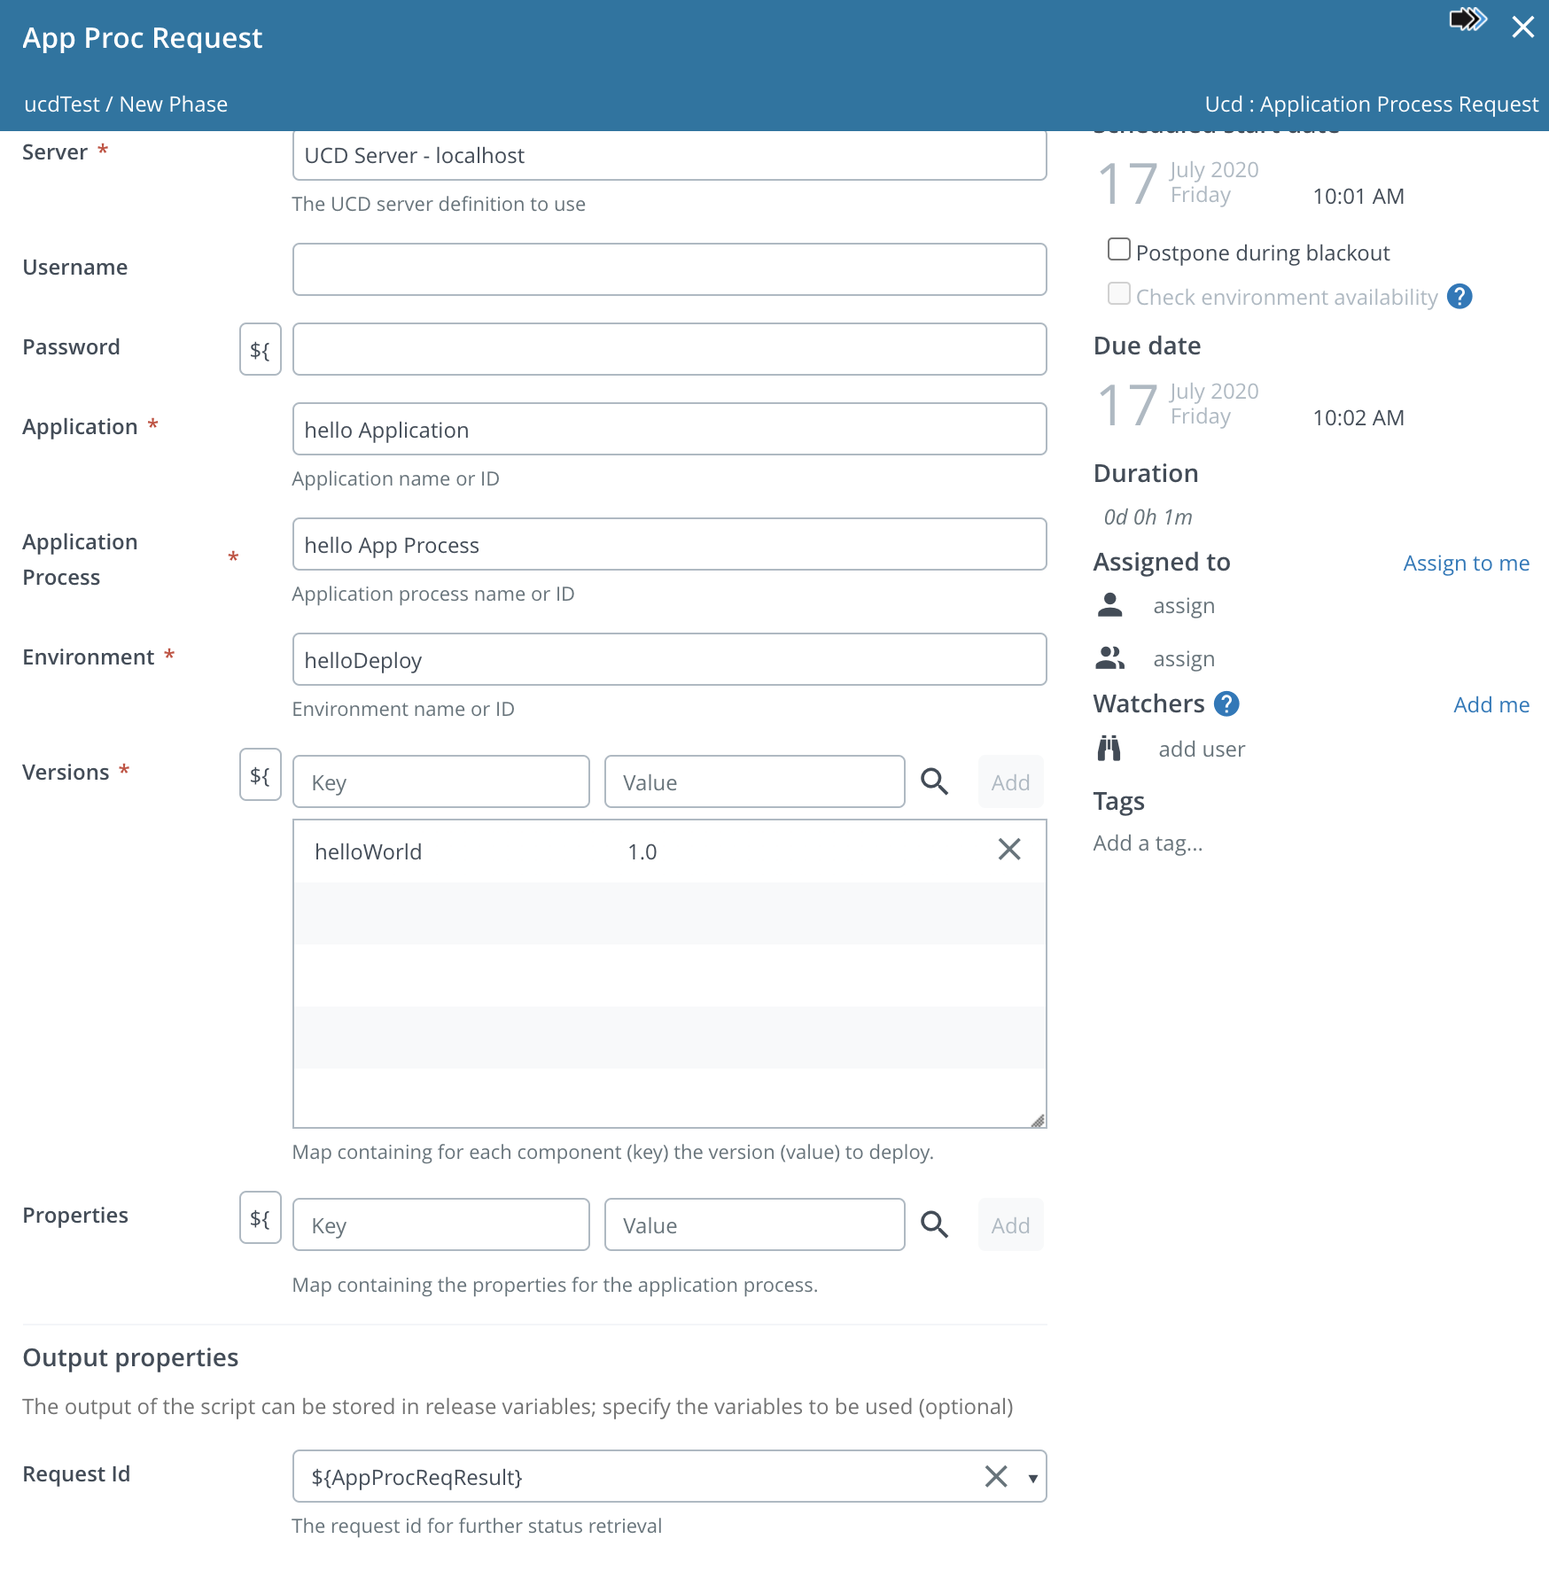
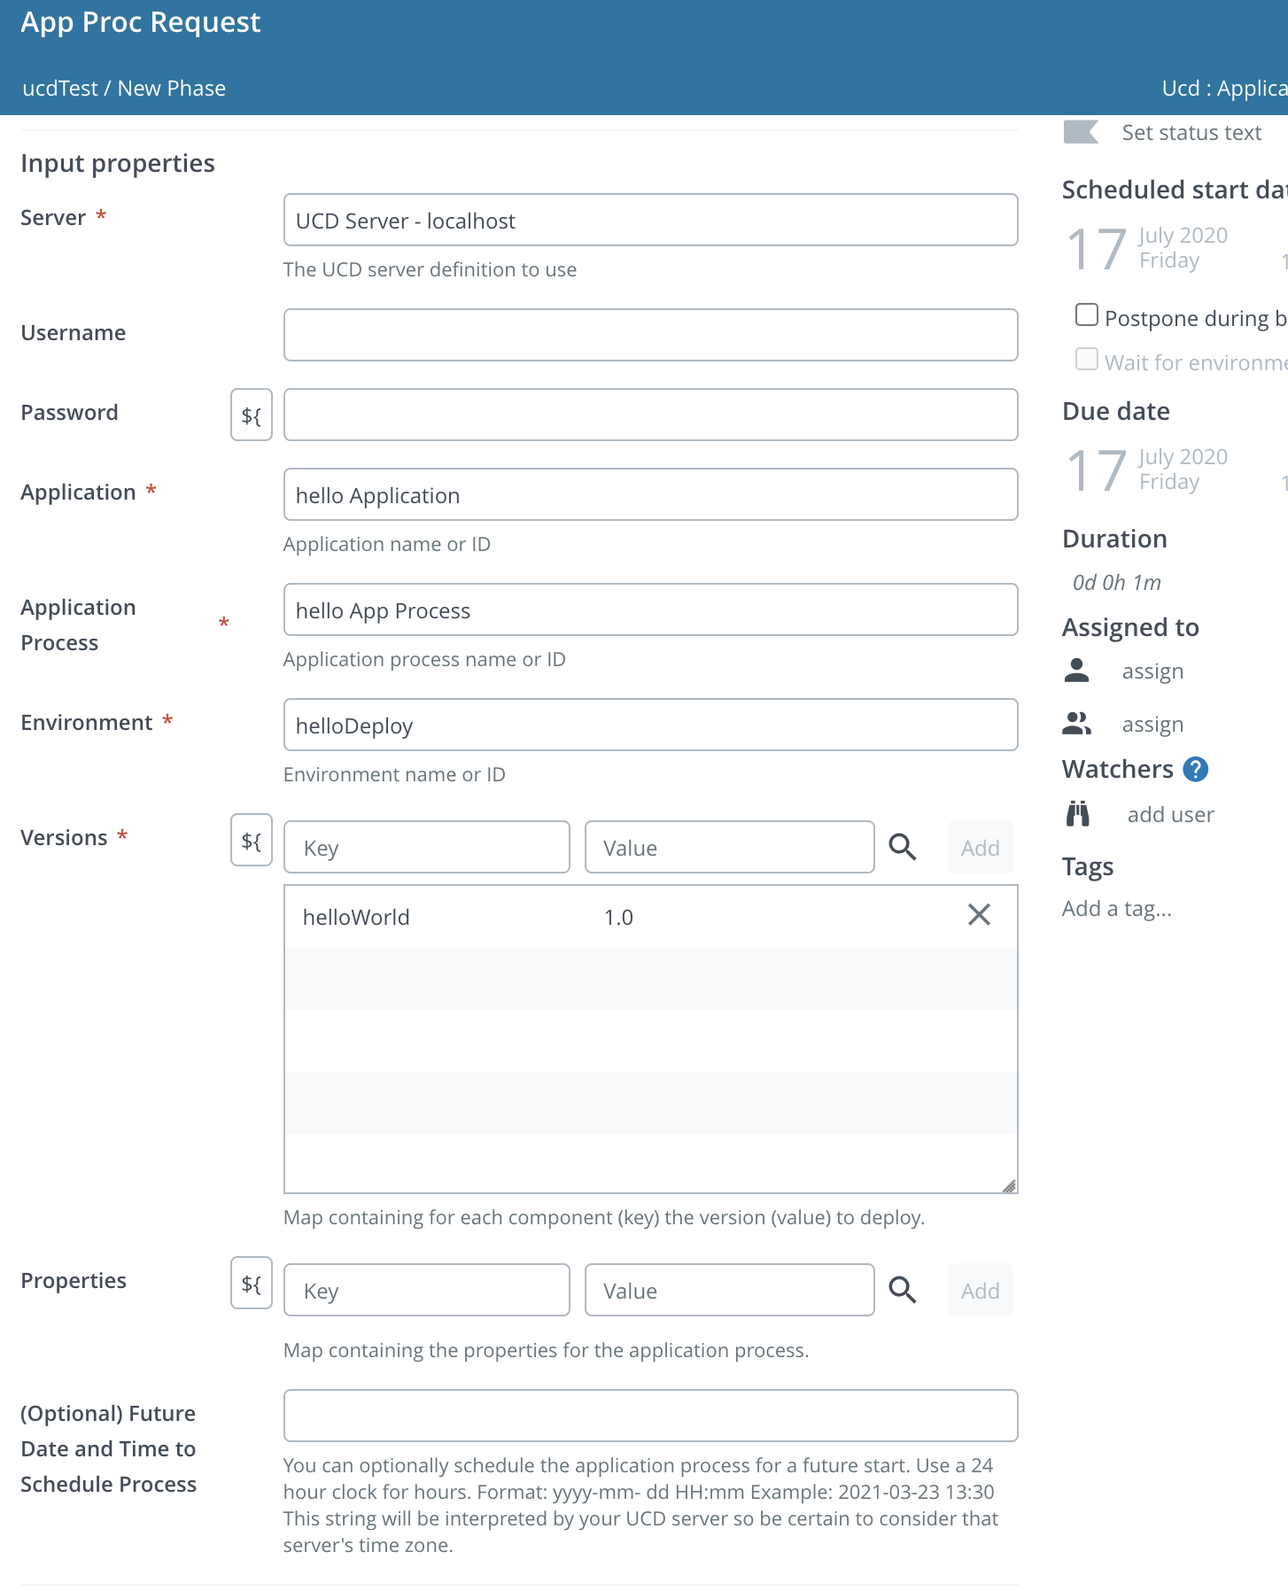
Change polling to sched task, added future date, license year update

diff --git a/src/main/resources/ucd/UCDClient.py b/src/main/resources/ucd/UCDClient.py
@@ -1,5 +1,5 @@
 #
-# Copyright 2020 XEBIALABS
+# Copyright 2021 XEBIALABS
 #
 # Permission is hereby granted, free of charge, to any person obtaining a copy of this software and associated documentation files (the "Software"), to deal in the Software without restriction, including without limitation the rights to use, copy, modify, merge, publish, distribute, sublicense, and/or sell copies of the Software, and to permit persons to whom the Software is furnished to do so, subject to the following conditions:
 #
@@ -11,8 +11,16 @@
 
 import json
 import time
+import logging
+import datetime
 
 from ucd.HttpRequest import HttpRequest
+
+logger = logging.getLogger(__name__)
+
+logger.debug("In UCDClient")
+# In the case we have a future scheduled ucd_applicationprocessrequest, we don't want to log all those status messages
+shouldSupressLogging = False
 
 
 def check_response(response, message):
@@ -21,12 +29,13 @@ def check_response(response, message):
 
 
 class UCD_Client(object):
-    def __init__(self, http_connection, username=None, password=None, verify=True):
+    def __init__(self, http_connection, task, username=None, password=None, verify=True):
         self.http_request = HttpRequest(http_connection, username, password, verify)
+        self.task = task
 
     @staticmethod
-    def create_client(http_connection, username=None, password=None, verify=True):
-        return UCD_Client(http_connection, username, password, verify)
+    def create_client(http_connection, task, username=None, password=None, verify=True):
+        return UCD_Client(http_connection, task, username, password, verify)
 
     def ucd_listsystemconfiguration(self, variables):
         system_configuration_endpoint = "/cli/systemConfiguration"
@@ -39,7 +48,6 @@ class UCD_Client(object):
         variables['systemConfiguration'] = result
         return result
 
-# TODO: add 'date' option for scheduled deployments
 
     def ucd_applicationprocessrequest(self, variables):
         application_process_request_endpoint = "/cli/applicationProcessRequest/request"
@@ -49,6 +57,14 @@ class UCD_Client(object):
         body = {'application': variables['application'], 'applicationProcess': variables['applicationProcess'],
                 'environment': variables['environment'], 'properties': variables['properties'],
                 'versions': versions_list}
+        if variables['scheduleDate'] is not None and len(variables['scheduleDate']) > 0:
+            if self.vaild_dateTime(variables['scheduleDate']):
+                logger.debug("dateTimeString is valid")
+                body.update({"date": variables['scheduleDate']})
+            else:
+                logger.debug("dateTimeString is Not valid")
+                raise Exception("Future schedule date is configured but is not in proper format. See field description.")
+
         print "Sending request: [%s]\n" % json.dumps(body)
         application_process_request_response = self.http_request.put(application_process_request_endpoint,
                                                                      json.dumps(body), contentType='application/json')
@@ -56,6 +72,7 @@ class UCD_Client(object):
                             "Failed to execute application process request. Server return [%s], with content [%s]" % (
                                 application_process_request_response.status,
                                 application_process_request_response.response))
+        logger.debug("\napplicationprocessrequest respone was %s\n" % json.loads(application_process_request_response.getResponse()))
         result = json.loads(application_process_request_response.getResponse())["requestId"]
         variables['requestId'] = result
         return result
@@ -71,6 +88,9 @@ class UCD_Client(object):
         return json.loads(application_process_request_status_response.getResponse())
 
     def ucd_applicationprocessrequeststatus(self, variables):
+        #logger.debug("In ucd_applicationprocessrequeststatus")
+        global shouldSupressLogging
+
         '''        
         The UCD request returns the following statuses:
         CANCELING
@@ -101,12 +121,22 @@ class UCD_Client(object):
         variables['requestStatus'] = request_response["status"]
         variables['requestResult'] = request_response["result"]
 
-        # update task status
-        print ("Received Request Status: [%s] with Request Result: [%s]\n").format(variables['requestStatus'], variables['requestResult'])
+        # log task status
+        if variables['requestResult'] is not None and  variables['requestResult'] in  ('SCHEDULED FOR FUTURE'):
+            if not shouldSupressLogging:
+                logger.debug("Received Request Status: Request Id: [%s],  Request Status: [%s] with Request Result: [%s], will surpress printout until result change.\n" % (variables['requestId'], variables['requestStatus'], variables['requestResult']))
+                #print ("Received Request Status: [%s] with Request Result: [%s], will surpress printout until result change.\n" % (variables['requestStatus'], variables['requestResult']))
+                shouldSupressLogging = True
+        else:
+            logger.debug("Received Request Status: Request Id: [%s],  Request Status: [%s] with Request Result: [%s].\n" % (variables['requestId'], variables['requestStatus'], variables['requestResult']))
+            #print ("Received Request Status: [%s] with Request Result: [%s].\n" % (variables['requestStatus'], variables['requestResult']))
+            # set to false so the print output from application_process_request_status will print at least once
+            shouldSupressLogging = False
+
 
         # determine if we're done
         if variables['requestStatus'] in ("CLOSED", "FAULTED"):
-            task.setStatusLine("Result: %s" % variables['requestResult'])
+            self.task.setStatusLine("Result: %s" % variables['requestResult'])
             if variables['requestResult'] not in "SUCCEEDED":
                 raise Exception("Failed to execute application process request. Status [%s], Result [%s]" % (
                     variables['requestStatus'], variables['requestResult']))
@@ -115,10 +145,18 @@ class UCD_Client(object):
 
         # not done, continue checking
         else:
-            task.setStatusLine("Status: %s" % variables['requestStatus'])
-            task.schedule('ucd/UCDTask.wait-for-status.py')
+            self.task.setStatusLine("Status: %s" % variables['requestStatus'])
+            self.task.schedule('ucd/UCDTask.wait-for-status.py')
 
     def ucd_synchronousapplicationprocessrequest(self, variables):
         self.ucd_applicationprocessrequest(variables)
-        task.schedule('ucd/UCDTask.wait-for-status.py')
+        self.task.schedule('ucd/UCDTask.wait-for-status.py')
+
+    def vaild_dateTime(self, dateTimeString):
+        logger.debug("In valid_dateTime, dateTimeString = %s" % dateTimeString)
+        try:
+            datetime.datetime.strptime(dateTimeString, '%Y-%m-%d %H:%M')
+            return True
+        except ValueError:
+            return False
 

diff --git a/src/main/resources/ucd/__init__.py b/src/main/resources/ucd/__init__.py
@@ -1,5 +1,5 @@
 #
-# Copyright 2020 XEBIALABS
+# Copyright 2021 XEBIALABS
 #
 # Permission is hereby granted, free of charge, to any person obtaining a copy of this software and associated documentation files (the "Software"), to deal in the Software without restriction, including without limitation the rights to use, copy, modify, merge, publish, distribute, sublicense, and/or sell copies of the Software, and to permit persons to whom the Software is furnished to do so, subject to the following conditions:
 #
@@ -8,3 +8,19 @@
 # THE SOFTWARE IS PROVIDED "AS IS", WITHOUT WARRANTY OF ANY KIND, EXPRESS OR IMPLIED, INCLUDING BUT NOT LIMITED TO THE WARRANTIES OF MERCHANTABILITY, FITNESS FOR A PARTICULAR PURPOSE AND NONINFRINGEMENT. IN NO EVENT SHALL THE AUTHORS OR COPYRIGHT HOLDERS BE LIABLE FOR ANY CLAIM, DAMAGES OR OTHER LIABILITY, WHETHER IN AN ACTION OF CONTRACT, TORT OR OTHERWISE, ARISING FROM, OUT OF OR IN CONNECTION WITH THE SOFTWARE OR THE USE OR OTHER DEALINGS IN THE SOFTWARE.
 #
 
+import logging
+import logging.handlers
+from logging.handlers import RotatingFileHandler
+import os
+
+LOG_FILENAME = 'log/ucd-plugin.log'
+
+logger = logging.getLogger(__name__)
+logger.setLevel(logging.DEBUG)
+handler = logging.handlers.RotatingFileHandler(
+              LOG_FILENAME, maxBytes=1000000, backupCount=1)
+formatter = logging.Formatter('%(asctime)s %(name)s %(levelname)s %(message)s')
+handler.setFormatter(formatter)
+logger.addHandler(handler)
+
+logger.debug('logger has been configured')

diff --git a/src/main/resources/ucd/UCDClientUtil.py b/src/main/resources/ucd/UCDClientUtil.py
@@ -1,5 +1,5 @@
 #
-# Copyright 2020 XEBIALABS
+# Copyright 2021 XEBIALABS
 #
 # Permission is hereby granted, free of charge, to any person obtaining a copy of this software and associated documentation files (the "Software"), to deal in the Software without restriction, including without limitation the rights to use, copy, modify, merge, publish, distribute, sublicense, and/or sell copies of the Software, and to permit persons to whom the Software is furnished to do so, subject to the following conditions:
 #
@@ -14,6 +14,6 @@ from ucd.UCDClient import UCD_Client
 class UCD_Client_Util(object):
 
     @staticmethod
-    def create_ucd_client(container, username, password, verifySsl):
-        client = UCD_Client.create_client(container, username, password, verifySsl)
+    def create_ucd_client(container, task, username, password, verifySsl):
+        client = UCD_Client.create_client(container, task, username, password, verifySsl)
         return client

diff --git a/src/main/resources/ucd/UCDTask.py b/src/main/resources/ucd/UCDTask.py
@@ -1,5 +1,5 @@
 #
-# Copyright 2020 XEBIALABS
+# Copyright 2021 XEBIALABS
 #
 # Permission is hereby granted, free of charge, to any person obtaining a copy of this software and associated documentation files (the "Software"), to deal in the Software without restriction, including without limitation the rights to use, copy, modify, merge, publish, distribute, sublicense, and/or sell copies of the Software, and to permit persons to whom the Software is furnished to do so, subject to the following conditions:
 #
@@ -11,7 +11,7 @@
 from ucd.UCDClientUtil import UCD_Client_Util
 
 verify_ssl = not server['disableSslVerification']
-ucd_client = UCD_Client_Util.create_ucd_client(server, username, password, verify_ssl)
+ucd_client = UCD_Client_Util.create_ucd_client(server, task, username, password, verify_ssl)
 method = str(task.getTaskType()).lower().replace('.', '_')
 call = getattr(ucd_client, method)
 output = call(locals())

diff --git a/src/main/resources/ucd/UCDTask.wait-for-status.py b/src/main/resources/ucd/UCDTask.wait-for-status.py
@@ -1,5 +1,5 @@
 #
-# Copyright 2020 XEBIALABS
+# Copyright 2021 XEBIALABS
 #
 # Permission is hereby granted, free of charge, to any person obtaining a copy of this software and associated documentation files (the "Software"), to deal in the Software without restriction, including without limitation the rights to use, copy, modify, merge, publish, distribute, sublicense, and/or sell copies of the Software, and to permit persons to whom the Software is furnished to do so, subject to the following conditions:
 #
@@ -11,5 +11,5 @@
 from ucd.UCDClientUtil import UCD_Client_Util
 
 verify_ssl = not server['disableSslVerification']
-ucd_client = UCD_Client_Util.create_ucd_client(server, username, password, verify_ssl)
+ucd_client = UCD_Client_Util.create_ucd_client(server, task, username, password, verify_ssl)
 ucd_client.ucd_applicationprocessrequeststatus(locals())

diff --git a/src/test/java/integration/PluginIntegrationTest.java b/src/test/java/integration/PluginIntegrationTest.java
@@ -1,5 +1,5 @@
 /**
- * Copyright 2020 XEBIALABS
+ * Copyright 2021 XEBIALABS
  *
  * Permission is hereby granted, free of charge, to any person obtaining a copy of this software and associated documentation files (the "Software"), to deal in the Software without restriction, including without limitation the rights to use, copy, modify, merge, publish, distribute, sublicense, and/or sell copies of the Software, and to permit persons to whom the Software is furnished to do so, subject to the following conditions:
  *

diff --git a/src/test/java/integration/util/PluginTestHelper.java b/src/test/java/integration/util/PluginTestHelper.java
@@ -1,5 +1,5 @@
 /**
- * Copyright 2020 XEBIALABS
+ * Copyright 2021 XEBIALABS
  *
  * Permission is hereby granted, free of charge, to any person obtaining a copy of this software and associated documentation files (the "Software"), to deal in the Software without restriction, including without limitation the rights to use, copy, modify, merge, publish, distribute, sublicense, and/or sell copies of the Software, and to permit persons to whom the Software is furnished to do so, subject to the following conditions:
  *

diff --git a/src/main/resources/ucd/HttpRequest.py b/src/main/resources/ucd/HttpRequest.py
@@ -1,5 +1,5 @@
 #
-# Copyright 2020 XEBIALABS
+# Copyright 2021 XEBIALABS
 #
 # Permission is hereby granted, free of charge, to any person obtaining a copy of this software and associated documentation files (the "Software"), to deal in the Software without restriction, including without limitation the rights to use, copy, modify, merge, publish, distribute, sublicense, and/or sell copies of the Software, and to permit persons to whom the Software is furnished to do so, subject to the following conditions:
 #

diff --git a/src/main/resources/ucd/TestConnection.py b/src/main/resources/ucd/TestConnection.py
@@ -1,5 +1,5 @@
 #
-# Copyright 2020 XEBIALABS
+# Copyright 2021 XEBIALABS
 #
 # Permission is hereby granted, free of charge, to any person obtaining a copy of this software and associated documentation files (the "Software"), to deal in the Software without restriction, including without limitation the rights to use, copy, modify, merge, publish, distribute, sublicense, and/or sell copies of the Software, and to permit persons to whom the Software is furnished to do so, subject to the following conditions:
 #

diff --git a/README.md b/README.md
@@ -1,6 +1,5 @@
 # XL Release UCD Plugin
 
-[![Build Status][xlr-ucd-plugin-travis-image]][xlr-ucd-plugin-travis-url]
 [![Codacy Badge][xlr-ucd-plugin-codacy-image] ][xlr-ucd-plugin-codacy-url]
 [![Code Climate][xlr-ucd-plugin-code-climate-image] ][xlr-ucd-plugin-code-climate-url]
 [![License: MIT][xlr-ucd-plugin-license-image] ][xlr-ucd-plugin-license-url]
@@ -20,7 +19,13 @@ This plugin offers an interface from XL Release to Urban Code Deploy Server.
 
 ## Requirements
 
-* XL Release**   9.0.0+
+Changes introduced in version 2.0.0 -
+    1. Polling for tasks that retrieve Status information has been replaced with the Release Schedule Task mechanism. This allows tasks to resume even if Release is rebooted. If your template includes polling parameters, you will see an alert indicator in your task, but the task will still work without changes. 
+    2. It is now possible to set a UCD Application Process Request for a future date/time deployment.
+
+## Requirements
+
+* XL Release**   9.8.0+
 * This plugin has been tested with XL Release 9.8.0 and UCD 7.1.0
 
 ## Installation
@@ -39,7 +44,8 @@ The List System Configuration task will list the system attributes as name value
 
 ### Application Process Request
 
-The Application Process Request task will invoke an Application Process Request in UCD for the given Application, Application Process, Environment and Versions (as defined in UCD). The Application Process Request ID is retrieved for display or stored in an XL Release variable.
+The Application Process Request task will invoke an Application Process Request in UCD for the given Application, Application Process, Environment and Versions (as defined in UCD). If Future Date and Time is set, UDC will put the request into a pending state until that time. The Date/Time string must be in the format yyyy-mm-dd HH:mm ,use a 24 hour clock for hours. Example: 2021-03-23 13:30 .
+The Application Process Request ID is retrieved for display or stored in an XL Release variable.
 
 ![app_process_request](images/appProcessRequest.png)
 
@@ -51,7 +57,7 @@ Given an Application Process Request ID, this task will poll UCD for the status 
 
 ### Synchronous Application Process
 
-The Synchronous Application Process task will invoke a UCD Application Process Request and then immediately poll for the status of that request. The Request ID, Request Status and Request Result are output.
+The Synchronous Application Process task will invoke a UCD Application Process Request and then immediately poll for the status of that request. If Future Date and Time is set, UDC will put the request into a pending state until that time. The Date/Time string must be in the format yyyy-mm-dd HH:mm ,use a 24 hour clock for hours. Example: 2021-03-23 13:30 . The Request ID, Request Status and Request Result are output.
 
 ![sync_process_request](images/synchronousAppProcess.png)
 
@@ -67,30 +73,19 @@ Build and package the plugins with...
 ./gradlew assemble
 ```
 
-### To run integration tests
-
-1. Clone this git project to your local dev environment
-2. You will need to have Docker and Docker Compose installed.
-3. The XL-Release docker image uses the community trial license
-4. Open a terminal in the root of the xlr-ucd-plugin project and run the following gradle task
-
-```bash
-./gradlew clean integrationTest
-```
-
-The test will set up a temporary xlr/ucd testbed using docker. After testing is complete, the test docker containers are stopped and removed.
-
 ### To run demo or dev version (set up docker containers for both XLR and UCD platform)
 
 NOTE:
 
-1. For requirements, see the 'To run integration tests' above.
-2. You will need to be able to run a bash script
-3. You will need to have [curl](https://curl.haxx.se/) and [jq](https://stedolan.github.io/jq/) installed
-4. XL Release will run on the [localhost port 15516](http://localhost:15516/).
-5. The XL Release username / password is admin / admin.
-6. The UCD Server runs on the [localhost port 8443](https://localhost:8443/)
-7. The UCD username / password is admin / admin
+1. Clone this git project to your local dev environment
+2. You will need to have Docker and Docker Compose installed.
+3. The XL-Release docker image uses the community trial license
+4. You will need to be able to run a bash script
+5. You will need to have [curl](https://curl.haxx.se/) and [jq](https://stedolan.github.io/jq/) installed
+6. XL Release will run on the [localhost port 15516](http://localhost:15516/).
+7. The XL Release username / password is admin / admin.
+8. The UCD Server runs on the [localhost port 8443](https://localhost:8443/)
+9. The UCD username / password is admin / admin
 
 * Before running the demo, be sure to create the plugin by opening a terminal, cd into the plugin source code directory, and run
 
@@ -104,7 +99,13 @@ NOTE:
 docker-compose up
 ```
 
-* After XLR and the UCD Platform starts up, open a terminal in the directory src/test/resources/docker/initialize and run the initialize_demo.sh script. This will populate both XLR and the UCD Server with the demo data. You can then log into XLR, create and then run a release based upon the imported template name 'ucdTest'.
+* After XLR and the UCD Platform starts up, open a terminal in the directory src/test/resources/docker/initialize and run
+
+```bash
+./initialize_demo.sh
+```
+
+* This will populate both XLR and the UCD Server with the demo data. You can then log into XLR, create and then run a release based upon the imported template name 'ucdTest'.
 
 * To shut down and remove the docker containers - in a terminal, cd to the src/test/resources/docker directory, and run
 
@@ -116,8 +117,7 @@ docker-compose down
 
 + [UCD REST api](https://www.ibm.com/support/knowledgecenter/SS4GSP_7.1.0/com.ibm.udeploy.reference.doc/topics/rest_api_ref_commands.html)
 
-[xlr-ucd-plugin-travis-image]: https://travis-ci.org/xebialabs-community/xlr-ucd-plugin.svg?branch=master
-[xlr-ucd-plugin-travis-url]: https://travis-ci.org/xebialabs-community/xlr-ucd-plugin
+
 [xlr-ucd-plugin-codacy-image]: https://api.codacy.com/project/badge/Grade/da9c2f00342c40ad8efc7fbd1aaec063
 [xlr-ucd-plugin-codacy-url]: https://www.codacy.com/app/joris-dewinne/xlr-ucd-plugin
 [xlr-ucd-plugin-code-climate-image]: https://codeclimate.com/github/xebialabs-community/xlr-ucd-plugin/badges/gpa.svg
